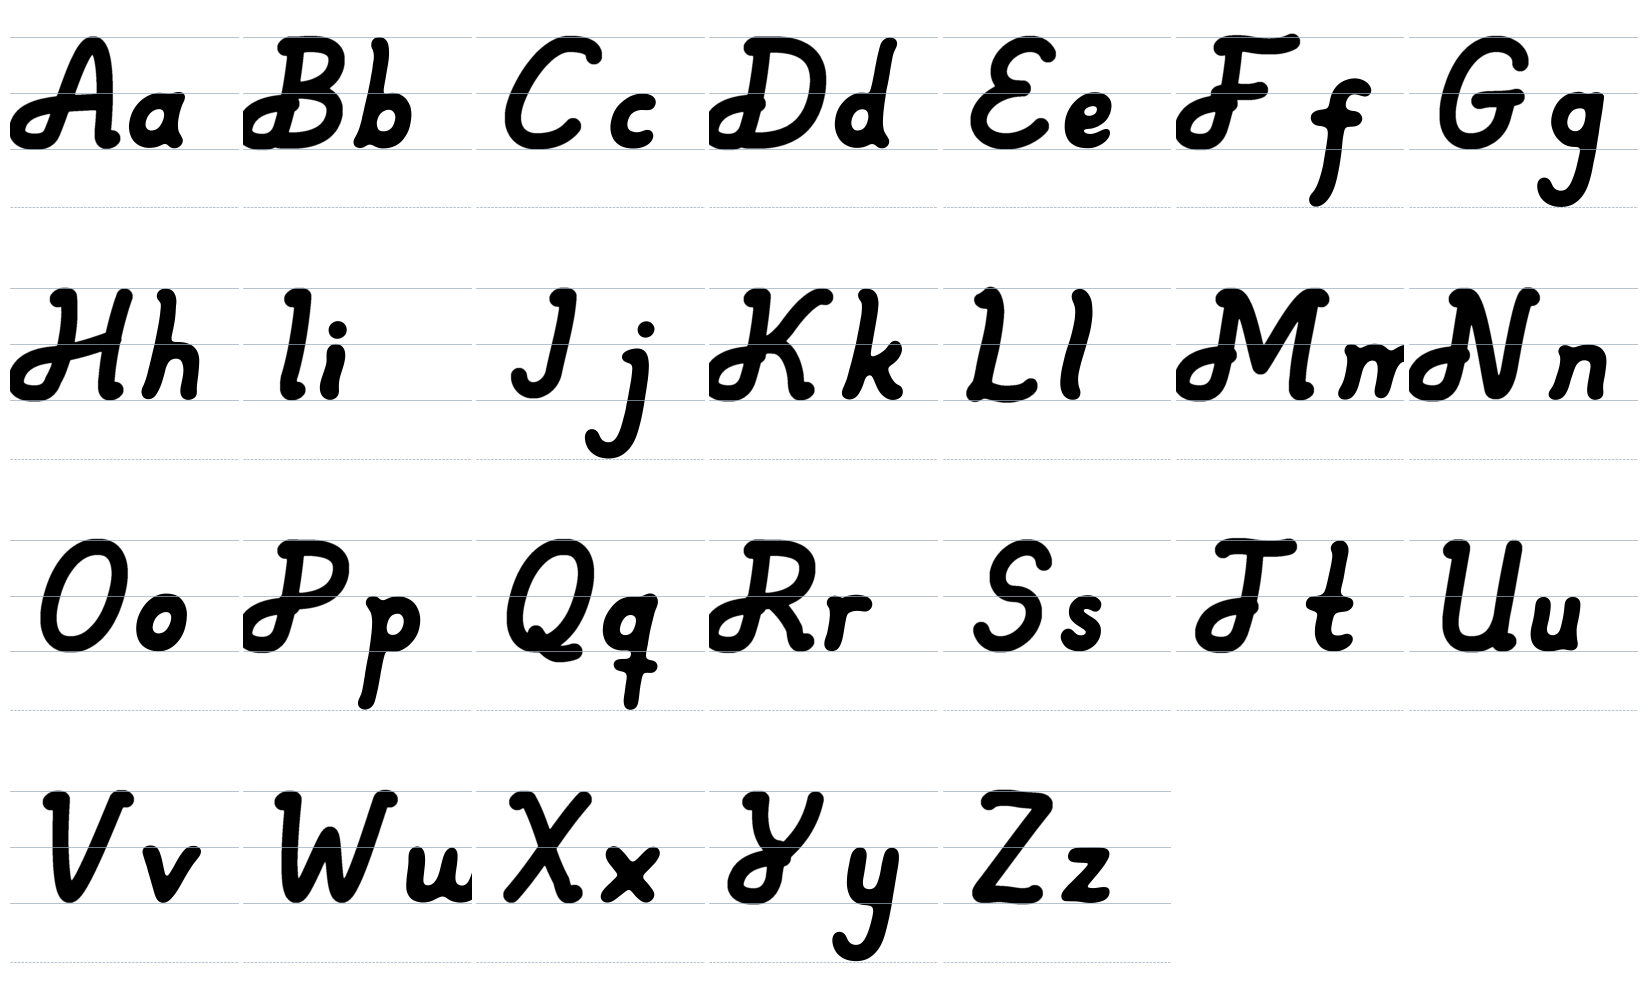
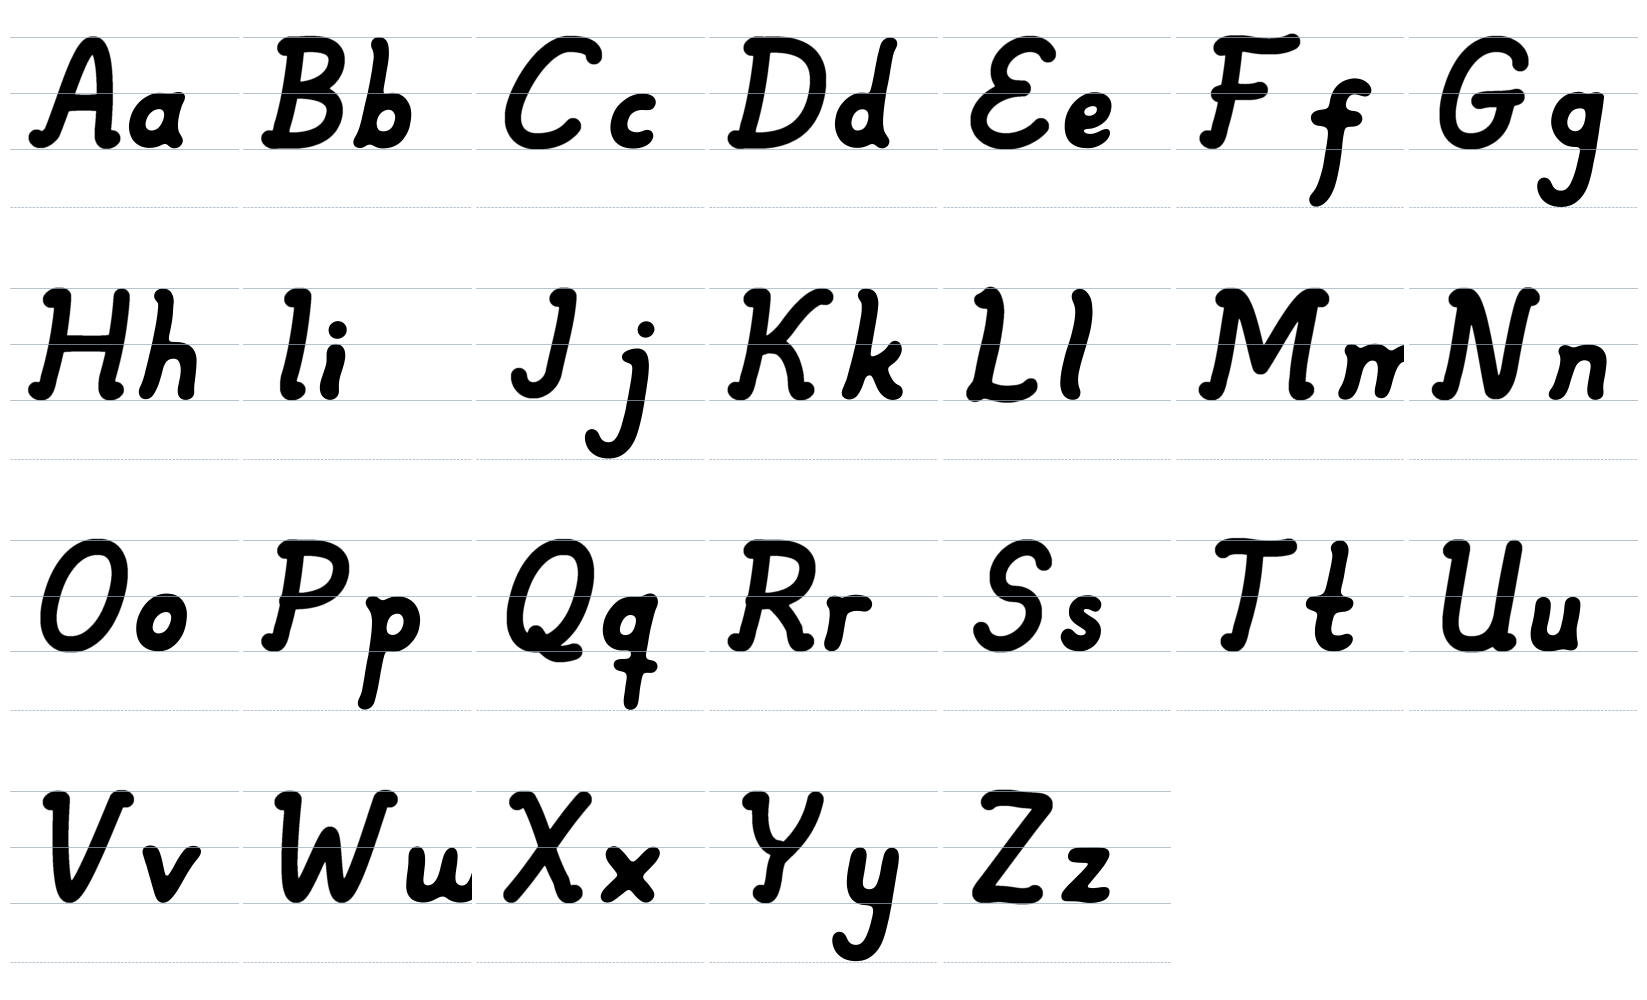
Inga öglor: alla versaler (även H) med korta mjuka fötter igen
Claude-Session: https://claude.ai/code/session_01G3Fa1qrTuHzte3kfXkaDtX

diff --git a/bokstaver/versaler.py b/bokstaver/versaler.py
@@ -72,7 +72,7 @@ def svans(x, y0=0.8, lut=0.0):
                  ((x1 + 0.28, LO - 0.01), (x1 + 0.34, LO + 0.02), (x1 + 0.38, LO + 0.07)))
 
 
-OGLOR = os.environ.get("OGLOR", "ja") == "ja"   # skrivstilsögla (som på H) nere till vänster på alla staplar
+OGLOR = os.environ.get("OGLOR", "nej") == "ja"  # skrivstilsögla nere till vänster på alla staplar (avstängd)
 
 
 def ogla(x, y0=0.8):
@@ -408,7 +408,7 @@ def ring(cx, cy):
     return [ellips(cx, cy, RING_R, RING_R)]
 
 
-VERSALER = {"A": A, "B": B, "C": C, "D": D, "E": E, "F": F, "G": G, "H": H, "I": I, "J": J_, "K": K_,
+VERSALER = {"A": A, "B": B, "C": C, "D": D, "E": E, "F": F, "G": G, "H": H if OGLOR else H_enkel, "I": I, "J": J_, "K": K_,
             "M": M, "N": N, "O": O, "P": P, "Q": Q, "R": R_, "S": S, "T": T, "U": U, "V": V, "W": W,
             "X": X, "Y": Y, "Z": Z}
 # Å, Ä, Ö: A/O med ring eller prickar (prickarna läggs till som separata delar i 3D)
